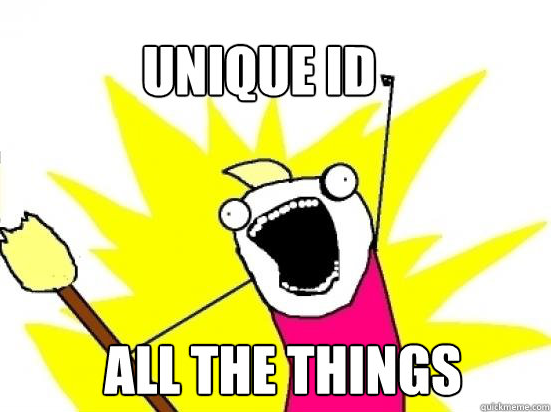
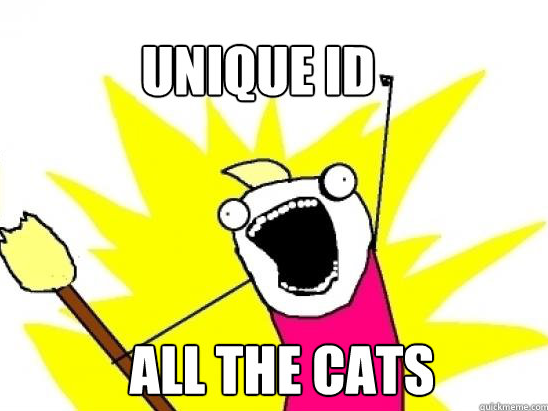
More

diff --git a/index.html b/index.html
@@ -71,11 +71,17 @@
 				<section>
                     <h2>Unique IDs.</h2>
                     <p>Simple, right?</p>
+                    <img src="http://24.media.tumblr.com/tumblr_m2jk09mdul1qz9s08o1_500.jpg" alt="kitten"/>
 				</section>
 
-				<section>
-                    <h2>Need to tell things apart</h2>
+                <section>
+                    <h2>Need to tell cats apart</h2>
                     <img src="media/allthethings.png" alt="Unique ID all the things!"/>
+                </section>
+
+				<section>
+                    <h2>Normal</h2>
+                    <img src="media/unsharded.png" alt="unsharded"/>
 				</section>
 
 				<section>
@@ -88,11 +94,6 @@ CREATE TABLE kittens (
 );
                     </code>
                     </pre>
-				</section>
-
-				<section>
-                    <h2>Normal</h2>
-                    <img src="media/unsharded.png" alt="unsharded"/>
                     <p class="fragment">But when you start getting more data ... </p>
 				</section>
 
@@ -111,14 +112,15 @@ CREATE TABLE kittens (
                     <h2>Ticket Server</h2>
                     <small>a la Flickr</small><br/>
                     <img src="media/service.png" alt="sharded"/>
-                    <p class="fragment">Network chattiness</p>
+                    <p class="fragment">Still chatty</p>
                     <p class="fragment">More infrastructure</p>
+                    <p class="fragment">SPOF</p>
 				</section>
 
 				<section>
                     <h2>
                         There is<br/>
-                        another way...
+                         a simpler way...
                     </h2>
 				</section>
 
@@ -132,53 +134,55 @@ CREATE TABLE kittens (
 				<section>
 					<h2>UUID v4</h2>
                     128 bit random number
-                    <pre style="margin-left:auto; margin-right: auto; width: 50%">
+                    <pre style="margin-left:auto; margin-right: auto; width: 55%">
                     <code style="">
 >>> import uuid
->>> print uuid.uuid4()
-8da4b635-62f2-4de5-8097-0b0d4637cd7c
+>>> uuid.uuid4()
+UUID('74691173-e69d-440d-8172-dd63c97d1e87')
                     </code>
                     </pre>
+                    <p class="fragment">standard</p>
+                    <p class="fragment">great language / db support</p>
                     <p class="fragment">but ...</p>
 				</section>
 
 				<section>
                     <h2>B-Tree + Random == Bad</h2>
-                    <p>
-                    asdasd
-                    </p>
+                    <br/>
+                    <small class="fragment">wish there was a timestamp based UUID ...</small>
 				</section>
 
 
 				<section>
 					<h2>UUID v1</h2>
-                    <pre style="text-align: center">236abc75-f7e5-11e2-bc8a-b88d1204f9a2</pre>
+                    <pre style="text-align: center"><span style="color:blue">236abc75-f7e5-11e2</span>-bc8a-b88d1204f9a2</pre>
                     <p>Number of 100-nanosecond intervals since the adoption of the Gregorian calendar in the West.</p>
                     <img class="fragment" src="http://cdn.memegenerator.net/instances/400x/13582111.jpg"/>
+                    <br/>
+                    <small class="fragment">and besides ... </small>
 				</section>
 
 				<section>
 					<h2>UUID v1</h2>
-                    <pre style="text-align: center">236abc75-f7e5-11e2-bc8a-b88d1204f9a2</pre>
+                    <pre style="text-align: center">236abc75-f7e5-<span style="color:red">1</span><span style="color:blue">1e2</span>-bc8a-b88d1204f9a2</pre>
                     <ul>
                         <li>Timestamp backwards, no ordering</li>
                         <li>Are strings</li>
                         <li>Wasted bits for UUID version, dashes</li>
                         <li>Are huge (128 bits)</li>
                         <li>Don't fit in BIGINT</li>
-                    <ul>
+                    </ul>
 				</section>
 
 				<section>
 					<h2>Snowflake</h2>
                     <pre style="text-align: center">10765432100123456789</pre>
+                    <pre style="text-align: center">Timestamp + Machine ID + Sequence Number</pre>
                     <ul>
-                        <li>Timestamp + Machine ID + Sequence Number</li>
-                        <li>Unique</li>
                         <li>Time-ordered</li>
-                        <li>No coordination</li>
+                        <li>No coordination during generation</li>
                         <li>Not huge (64 bits)</li>
-                    <ul>
+                    </ul>
 				</section>
 
 				<section>
@@ -187,7 +191,10 @@ CREATE TABLE kittens (
                         <li>JVM / Scala</li>
                         <li>Zookeeper</li>
                         <li>Thrift</li>
-                    <ul>
+                    </ul>
+                    <br/>
+                    <br/>
+                    <p class="fragment">more infrastructure ...</p>
 				</section>
 
                 <section>
@@ -200,21 +207,23 @@ CREATE TABLE kittens (
                 </section>
 
 				<section>
-					<h2>OMG Collisions!</h2>
-                    Chances you'll get 
-                    <ul>
-                        <li>1000 * 140 bytes / second * 1 day</li>
-                    <ul>
+                    <img src="http://upload.wikimedia.org/wikipedia/commons/thumb/f/f0/Benjamin_D._Maxham_-_Henry_David_Thoreau_-_Restored.jpg/358px-Benjamin_D._Maxham_-_Henry_David_Thoreau_-_Restored.jpg" alt="Thoreau"/>
+                    <blockquote citation="Foo">
+                        Simplify, simplify, simplify your ID generation scheme.
+                    </blockquote>
+                    <small> -- Thoreau</small>
 				</section>
 
 				<section>
-					<h2>Collisions pt. 2</h2>
-                    <img src="http://www.giantfreakinrobot.com/wp-content/uploads/2011/09/Highlander.jpg"/>
+                    <h2><strong>Simple</strong>flake</h2>
+                    <pre style="text-align: center">10765432100123456789</pre>
+                    <pre style="text-align: center">Timestamp (41b) + Random Number (23b)</pre>
                     <ul>
-                        <li>1000 * 140 bytes / second * 1 day</li>
-                        <li>= 11 GB</li>
-                        <li>= You better hire a DBA</li>
-                    <ul>
+                        <li>Snowflake knockoff</li>
+                        <li>Time-ordered</li>
+                        <li>No coordination during generation</li>
+                        <li>Not huge (64 bits)</li>
+                    </ul>
 				</section>
 
 				<section>
@@ -229,6 +238,63 @@ CREATE TABLE kittens (
 				</section>
 
 				<section>
+					<h2>Usage</h2>
+                    <pre style="margin-left:auto; margin-right: auto; width: 75%">
+                    <code style="">
+>>> from simpleflake import simpleflake, parse_simpleflake
+>>> simpleflake()
+3594162604452825250L
+                    </code>
+                    </pre>
+                    Easy as pie
+                    <pre style="margin-left:auto; margin-right: auto; width: 75%">
+                    <code style="">
+>>> parse_simpleflake(3594162604452825250L)
+SimpleFlake(timestamp=1375160370.606, random_bits=6768802L)
+                    </code>
+                    </pre>
+				</section>
+
+                <section>
+                    <section>
+                        <h2>OMG Collisions!</h2>
+                        <br/>
+                        <p>Chances of collision at 100 inserts / sec.</p>
+                        <br/>
+                        <code>1.0787 x 10^-9</code>
+                    </section>
+
+                    <section>
+                        <h2>OMG Collisions!</h2>
+                        <br/>
+                        <p>At avg. 100 inserts / second, chances you'll get at least two in the same millisecond:</p>
+                        <br/>
+                        <code>PDF[PoissonDistribution[0.1], 2]<br/>
+                            = 0.00452419</code>
+                    </section>
+
+                    <section>
+                        <h2>OMG Collisions!</h2>
+                        <br/>
+                        <p>For two requests in the same millisecond, chances you'll get the same number out of 2^23:</p>
+                        <br/>
+                        <code>n^2/2m = (2)^2/(2*2^23) <br/>
+                            = 2.3842 × 10^-7</code>
+                    </section>
+
+                    <section>
+                        <h2>Collisions pt. 2</h2>
+                        <img src="http://www.giantfreakinrobot.com/wp-content/uploads/2011/09/Highlander.jpg"/>
+                        <ul>
+                            <li>(100 * 300 bytes) / second * 1 day</li>
+                            <li>= 2.6 GB / day</li>
+                            <li>= 1 TB / year</li>
+                            <li>= You better hire a DBA</li>
+                            <ul>
+                            </section>
+                        </section>
+
+				<section>
 					<h2>Future?</h2>
 					<p>
                         Totally backwards compatible with snowflake.
@@ -236,20 +302,21 @@ CREATE TABLE kittens (
 				</section>
 
                 <section>
-                    <h2>There are other ways</h2>
-                    <ul>
-                        <li>Consistent hashing</li>
-                        <li>HiLo</li>
-                    </ul>
-                    <p>
+                    <section>
+                        <h1>The End!</h1>
+                    </section>
+                    <section>
+                        <h2>There are other ways</h2>
+                        <ul>
+                            <li>Consistent hashing</li>
+                            <li>HiLo</li>
+                        </ul>
+                        <p>
                         But they're a pain ...
-                    </p>
+                        </p>
+                    </section>
                 </section>
 
-				<section>
-					<h1>THE END</h1>
-					<h3>BY Hakim El Hattab / hakim.se</h3>
-				</section>
 
 			</div>
 
